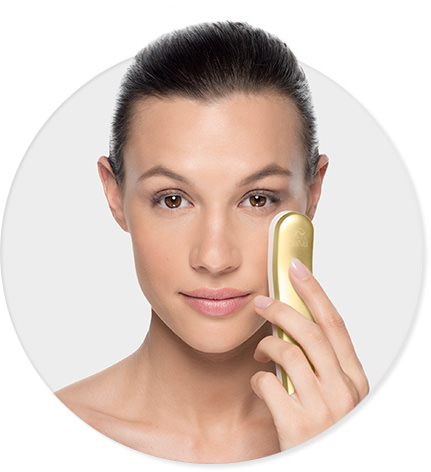
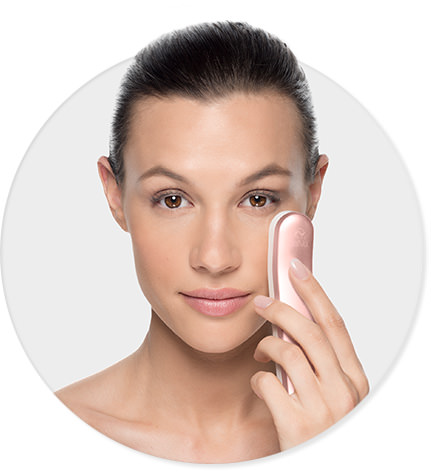
re rose gold site refresh

diff --git a/skin/frontend/zonda/default/css/styles-zonda.css b/skin/frontend/zonda/default/css/styles-zonda.css
@@ -796,7 +796,7 @@ button.button span.name {
 }
 .footer-main ul li.phone,
 .footer-main ul li.phone a[href^=tel] {
-    color: #aa8436;
+    color: #d19a8c;
     font-weight: bold;
 }
 .footer-main .privacy-terms {
@@ -1284,7 +1284,7 @@ button.button span.name {
 }
 .ratings .rating-box {
   width: 80px;
-  background: url(../images/bkg-rating-gold.png) repeat-x 0 0;
+  background: url(../images/bkg-rating-rosegold.png) repeat-x 0 0;
   height: 15px;
   line-height: 0;
   overflow: hidden;
@@ -1295,7 +1295,7 @@ button.button span.name {
     background-size: 16px auto;
 }
 .rating-box .rating {
-  background: url(../images/bkg-rating-gold.png) repeat-x 0 100%;
+  background: url(../images/bkg-rating-rosegold.png) repeat-x 0 100%;
   height: 15px;
     background-size: 16px auto;
 }
@@ -1937,7 +1937,7 @@ a.highlight-link {
 
 .product-view .reviews-summary-wrap .rating-box {
     float: right;
-    background: url("../images/bkg-rating-lg-gold.png") repeat-x scroll 0 0 rgba(0, 0, 0, 0);
+    background: url("../images/bkg-rating-lg-rosegold.png") repeat-x scroll 0 0 rgba(0, 0, 0, 0);
     display: inline-block;
     height: 37px;
     line-height: 0;
@@ -1949,7 +1949,7 @@ a.highlight-link {
 }
 
 .product-view .reviews-summary-wrap .rating-box .rating {
-    background: url("../images/bkg-rating-lg-gold.png") repeat-x scroll 0 100% rgba(0, 0, 0, 0);
+    background: url("../images/bkg-rating-lg-rosegold.png") repeat-x scroll 0 100% rgba(0, 0, 0, 0);
     height: 37px;
     background-size: 40px auto;
 }
@@ -2804,7 +2804,7 @@ td.for-desktop {
 .checkout-cart-index .btn-continue, .checkout-cart-index .btn-update {
   background: transparent;
   font-size: 16px;
-  color: #a98236;
+  color: #d19a8c;
   text-transform: none;
 }
 .checkout-cart-index .btn-continue {
@@ -3587,7 +3587,7 @@ div.cart-empty {
 }
 /* new home page */
 .homepage-button-cta {
-    background: #c0a879;
+    background: #d19a8c;
     color: #fff;
     display: inline-block;
     font-family: "Lato", "Helvetica Neue", Helvetica, Arial, sans-serif;
@@ -3602,7 +3602,7 @@ div.cart-empty {
 }
 
 .homepage-section-lto .homepage-button-cta {
-    background: #c0a879;
+    background: #d19a8c;
 }
 
 .homepage-button-cta:after {
@@ -3618,7 +3618,7 @@ div.cart-empty {
 
 .homepage-button-cta:hover {
     color: #fff;
-    background: #8d6a26;
+    background: #be8677;
     text-decoration: none;
 }
 
@@ -3768,20 +3768,20 @@ div.cart-empty {
 
 #slide-1 .homepage-button-cta,
 #slide-2 .homepage-button-cta {
-    background: #a98236;
+    background: #222;
 }
 
 #slide-1 .homepage-button-cta:hover,
 #slide-2 .homepage-button-cta:hover {
-    background: #8d6a26;
+    background: #000;
 }
 
 #slide-3 .homepage-button-cta {
-    background: #6197c9;
+    background: #222;
 }
 
 #slide-3 .homepage-button-cta:hover {
-    background: #3d71a1;
+    background: #000;
 }
 
 .homepage-hero-banner--copy p {
@@ -3914,7 +3914,7 @@ ul.homepage-content-worksgreat-list ul {
 }
 
 .homepage-content-worksgreat-list ul li:before {
-    color: #a98236;
+    color: #d19a8c;
     content: "+";
     font-weight: 600;
     height: 28px;
@@ -3957,7 +3957,7 @@ ul.homepage-content-worksgreat-list ul {
 }
 
 .homepage-section-lto-content .homepage-heading h3 .special {
-    color: #c0a879;
+    color: #d19a8c;
 }
 
 .homepage-section-lto-content p {
@@ -4396,7 +4396,7 @@ ul.homepage-content-worksgreat-list ul {
   display: block;
   width: 49px;
   height: 49px;
-  background: url(../images/backtotop-gold.png) no-repeat left top;
+  background: url(../images/backtotop-rosegold.png) no-repeat left top;
   background-size: auto 49px;
   text-indent: -999em;
 }
@@ -5158,7 +5158,7 @@ div.menu a, #nav li a, #blog_nav li a, #nav-links a {
     overflow: hidden;
 }
 .catalog-product-view #affirm-learn-more span {
-    color:#a98236;
+    color:#d19a8c;
 }
 .catalog-product-view #affirm-learn-more .affirm-logo {
     width: auto;
@@ -5190,7 +5190,7 @@ div.menu a, #nav li a, #blog_nav li a, #nav-links a {
 }
 
 .cms-wrapper a {
-    color: #a98236;
+    color: #d19a8c;
     outline: none;
 }
 
@@ -5236,14 +5236,14 @@ div.menu a, #nav li a, #blog_nav li a, #nav-links a {
 
 .refurbished-faqs-container .refurb-cta .button {
     background-color: #fff;
-    border: 1px solid #c0a879;
+    border: 1px solid #d19a8c;
     padding: 0 24px;
     margin-top: 12px;
     color: #333;
 }
 
 .refurbished-faqs-container .refurb-cta .button:hover {
-    background: #c0a879;
+    background: #d19a8c;
     color: #fff;
 }
 
@@ -6371,7 +6371,7 @@ h2.jenu-howitworks-header-h2 strong {
   overflow: hidden;
 }
 .jenu-howitworks-body-features .howitworks-blue-plus {
-  color: #a98236;
+  color: #d19a8c;
 }
 .howitworks-bottomcopy {
     font-size: 14px;
@@ -6613,7 +6613,7 @@ h2.jenu-howitworks-header-h2 strong {
 .cms-international-ordering-and-shipping .cslinks-left .cslinks li.international-ordering-and-shipping a,
 .cms-privacy-policy .cslinks-left .cslinks li.privacy-policy a,
 .cms-terms-and-conditions .cslinks-left .cslinks li.terms-and-conditions a {
-    color: #a98236;
+    color: #d19a8c;
 }
 
 .cms-faqs .cslinks-left .cslinks li.faqs a:hover,

diff --git a/skin/frontend/zonda/default/css/store_default.css b/skin/frontend/zonda/default/css/store_default.css
@@ -19,10 +19,10 @@ h6,
     color: #333;
 }
 a {
-    color: #a98236;
+    color: #d19a8c;
 }
 a:hover {
-    color: #8b651b;
+    color: #be8677;
 }
 .button,
 .sbToggle,
@@ -30,14 +30,14 @@ a:hover {
 .pager .pages ol li.current,
 .button-normal {
     display: inline-block;
-    background-color: #a98236;
+    background-color: #222;
     font-family: "Lato","Helvetica Neue", Helvetica, Arial, sans-serif;
     color: #ffffff;
     font-size: 13px;
     text-transform: uppercase;
 }
 .cms-no-route .main-content .form-search .input-text {
-    border: solid 1px #0067aa;
+    border: solid 1px #be8677;
 }
 .pager .pages ol li a {
     color: #ffffff;
@@ -51,14 +51,14 @@ a:hover {
 .btn-remove2:hover,
 .btn-remove:hover
 {
-    background-color: #926e28;
+    background-color: #000;
     color: #ffffff;
 }
 .button.link-wishlist:hover,
 .button.link-wishlist:focus,
 .button.link-compare:hover,
 .button.link-compare:focus {
-    background-color: #926e28;
+    background-color: #000;
 }
 .pager .pages ol li a:hover,
 .pager .pages ol li a:focus {
@@ -287,7 +287,7 @@ div.menu.active a,
 #blog_nav>li.active>a,
 #blog_nav>li.over>a
 {
-    color: #a98236;
+    color: #d19a8c;
     background-color: #ffffff;
     background-image: none;
 }
@@ -339,7 +339,7 @@ div.eternal-custom-menu-popup a.level1,
 #nav ul li.level1 a,
 #blog_nav ul li.level1 a{
     font-size: 13px;
-    color: #a98236;
+    color: #d19a8c;
 }
 div.eternal-custom-menu-popup a.level2,
 .menu-mobile a.level2,
@@ -362,7 +362,7 @@ div.eternal-custom-menu-popup a.level1:hover,
 .menu-mobile a.level1:hover,
 div.eternal-custom-menu-popup a.level2:hover,
 .menu-mobile a.level2:hover{
-    color: #a98236;
+    color: #d19a8c;
 }
 #menu-button .btn-navbar .icon-bar {
     background-color: #a1abb3;
@@ -467,12 +467,12 @@ div.eternal-custom-menu-popup a.level2:hover,
 }
 .footer-main a:hover,
 .footer-main a:focus {
-    color: #0067aa;
+    color: #be8677;
     padding-left: 5px;
 }
 .footer-top a:hover,
 .footer-top a:focus {
-    color: #0067aa;
+    color: #be8677;
     padding-left: 5px;
 }
 .footer-top .fblike-box a:hover,
@@ -483,11 +483,11 @@ div.eternal-custom-menu-popup a.level2:hover,
 }
 .footer-top #twitter-footer-slider a,
 .footer-main .fblike-box .facebook-like-wrap a {
-    color: #0067aa;
+    color: #be8677;
 }
 .footer-main #twitter-footer-slider a,
 .footer-main .fblike-box .facebook-like-wrap a {
-    color: #0067aa;
+    color: #be8677;
 }
 .footer address{
     font-size: 13px;

diff --git a/skin/frontend/zonda/default/css/eternal/custommenu.css b/skin/frontend/zonda/default/css/eternal/custommenu.css
@@ -454,7 +454,7 @@ div.eternal-custom-menu-popup a.level1,
 
 #nav .submega-right a.submega-cta {
     width: auto;
-    color: #a98236;
+    color: #d19a8c;
     text-transform: uppercase;
     font-size: 11px;
     padding: 0;
